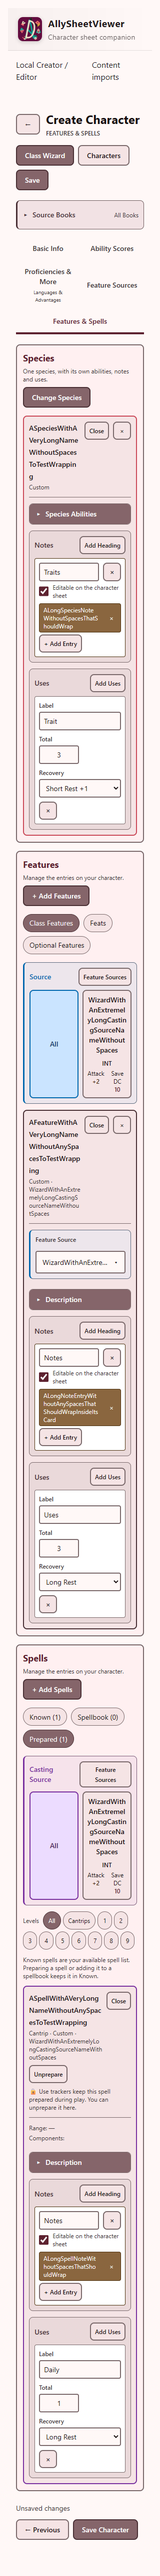
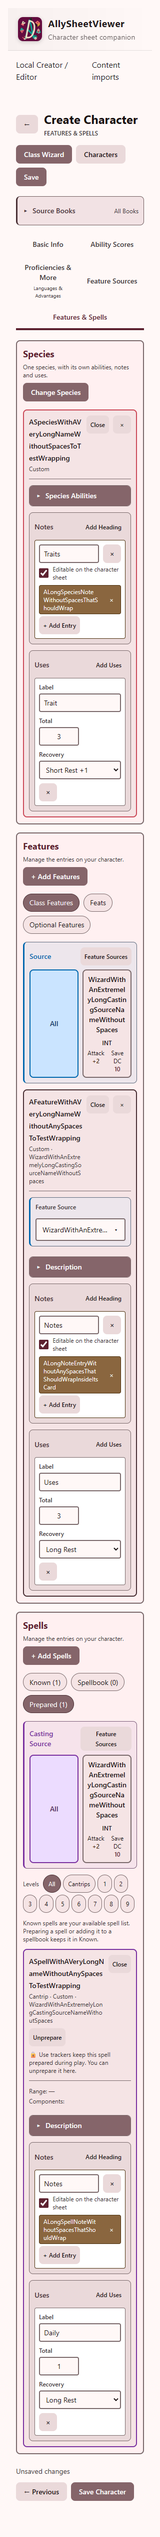
M4: Buttons

diff --git a/src/app/editor/local-editor.component.css b/src/app/editor/local-editor.component.css
@@ -125,6 +125,7 @@ details[open] > .selector-summary .selector-arrow { transform: rotate(90deg); }
   outline-offset: 3px;
 }
 .secondary-button, .action-button {
+  min-height: 2.25rem;
   padding: .5rem 1rem;
   border-radius: .5rem;
   font-size: .875rem;
@@ -132,15 +133,15 @@ details[open] > .selector-summary .selector-arrow { transform: rotate(90deg); }
   transition: background-color .15s, color .15s;
 }
 .secondary-button {
-  border: 2px solid var(--md-sys-color-outline-variant);
-  background: var(--md-sys-color-surface-container);
+  border: 0;
+  background: var(--md-sys-color-surface-container-high);
   color: var(--md-sys-color-on-surface);
 }
 .secondary-button:hover {
-  background: var(--md-sys-color-surface-container-high);
+  background: var(--md-sys-color-surface-container-highest);
 }
 .action-button {
-  border: 2px solid var(--md-sys-color-secondary);
+  border: 0;
   background: var(--md-sys-color-secondary-container);
   color: var(--md-sys-color-on-secondary-container);
 }
@@ -151,7 +152,7 @@ details[open] > .selector-summary .selector-arrow { transform: rotate(90deg); }
 .stepper-button {
   width: 2.5rem;
   height: 2.5rem;
-  border: 2px solid var(--md-sys-color-secondary);
+  border: 0;
   border-radius: .5rem;
   background: var(--md-sys-color-secondary-container);
   color: var(--md-sys-color-on-secondary-container);
